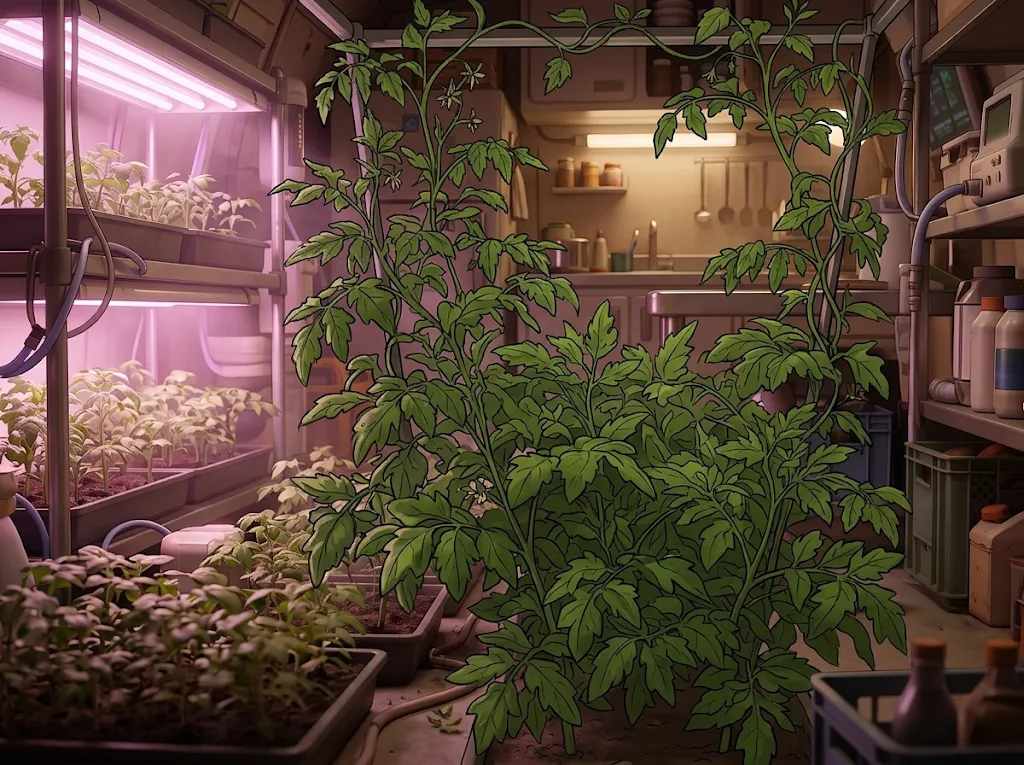
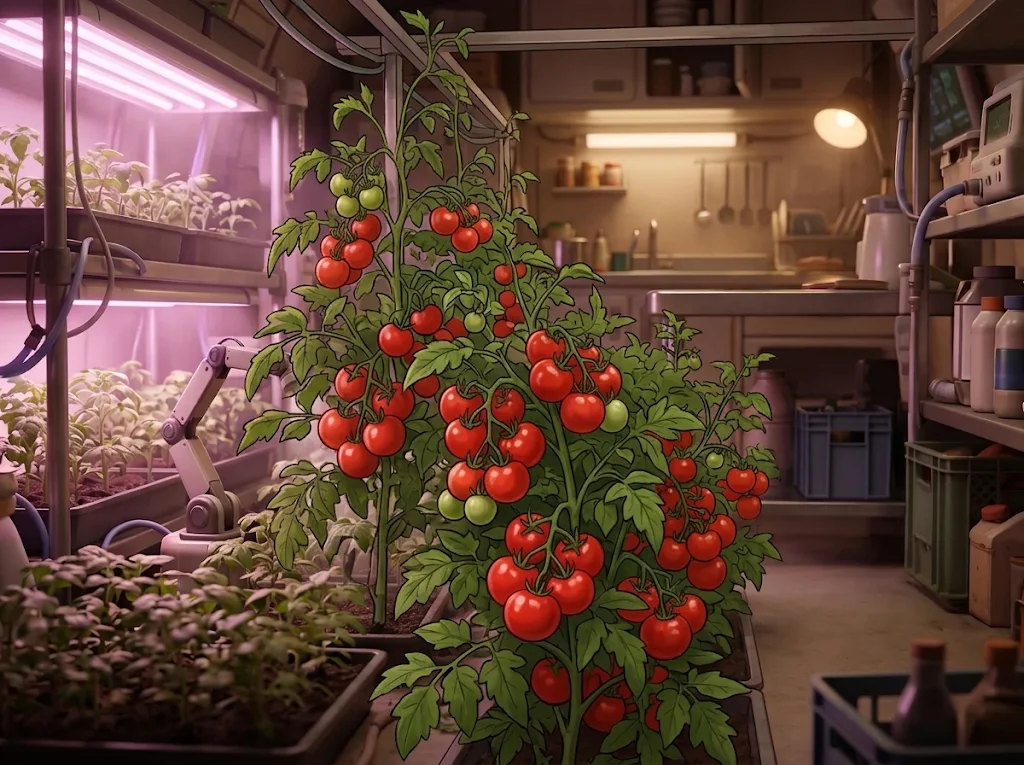
feat: move the F1 tomato harvest onto the greenhouse plant [visual]

diff --git a/src/minigames/tomato/game/tomatoes.ts b/src/minigames/tomato/game/tomatoes.ts
@@ -7,72 +7,72 @@ import type { TomatoDef } from './types';
 export const TOMATOES: TomatoDef[] = [
   {
     id: 'vine-1',
-    x: 32,
-    y: 24,
+    x: 40,
+    y: 36,
     size: 4.8,
     ripe: true,
     rotation: 5,
   },
   {
     id: 'vine-2',
-    x: 43,
-    y: 18,
+    x: 52,
+    y: 30,
     size: 4.2,
     ripe: false,
     rotation: -6,
   },
   {
     id: 'vine-3',
-    x: 55,
-    y: 27,
+    x: 64,
+    y: 40,
     size: 4.9,
     ripe: true,
     rotation: -4,
   },
   {
     id: 'vine-4',
-    x: 38,
-    y: 40,
+    x: 46,
+    y: 52,
     size: 4.5,
     ripe: true,
     rotation: 3,
   },
   {
     id: 'vine-5',
-    x: 50,
-    y: 43,
+    x: 59,
+    y: 55,
     size: 4.3,
     ripe: false,
     rotation: 6,
   },
   {
     id: 'vine-6',
-    x: 63,
-    y: 38,
+    x: 72,
+    y: 49,
     size: 4.7,
     ripe: true,
     rotation: -5,
   },
   {
     id: 'vine-7',
-    x: 34,
-    y: 56,
+    x: 42,
+    y: 68,
     size: 4.6,
     ripe: true,
     rotation: 4,
   },
   {
     id: 'vine-8',
-    x: 46,
-    y: 60,
+    x: 55,
+    y: 72,
     size: 4.1,
     ripe: false,
     rotation: -3,
   },
   {
     id: 'vine-9',
-    x: 58,
-    y: 55,
+    x: 68,
+    y: 66,
     size: 4.8,
     ripe: true,
     rotation: 2,
